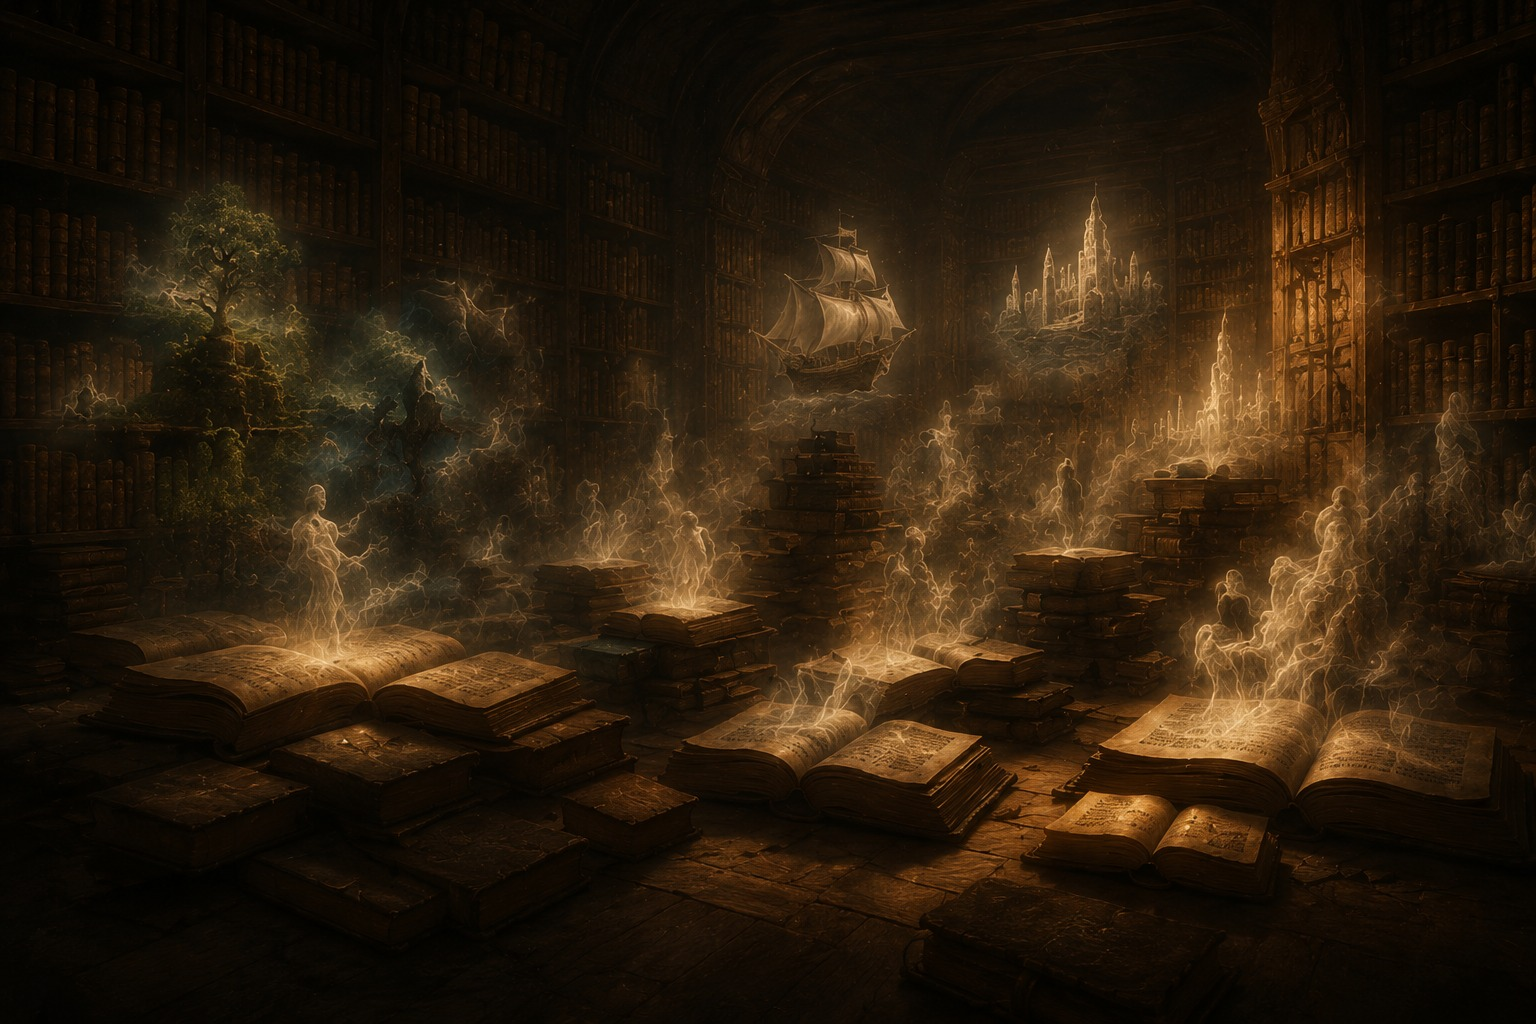
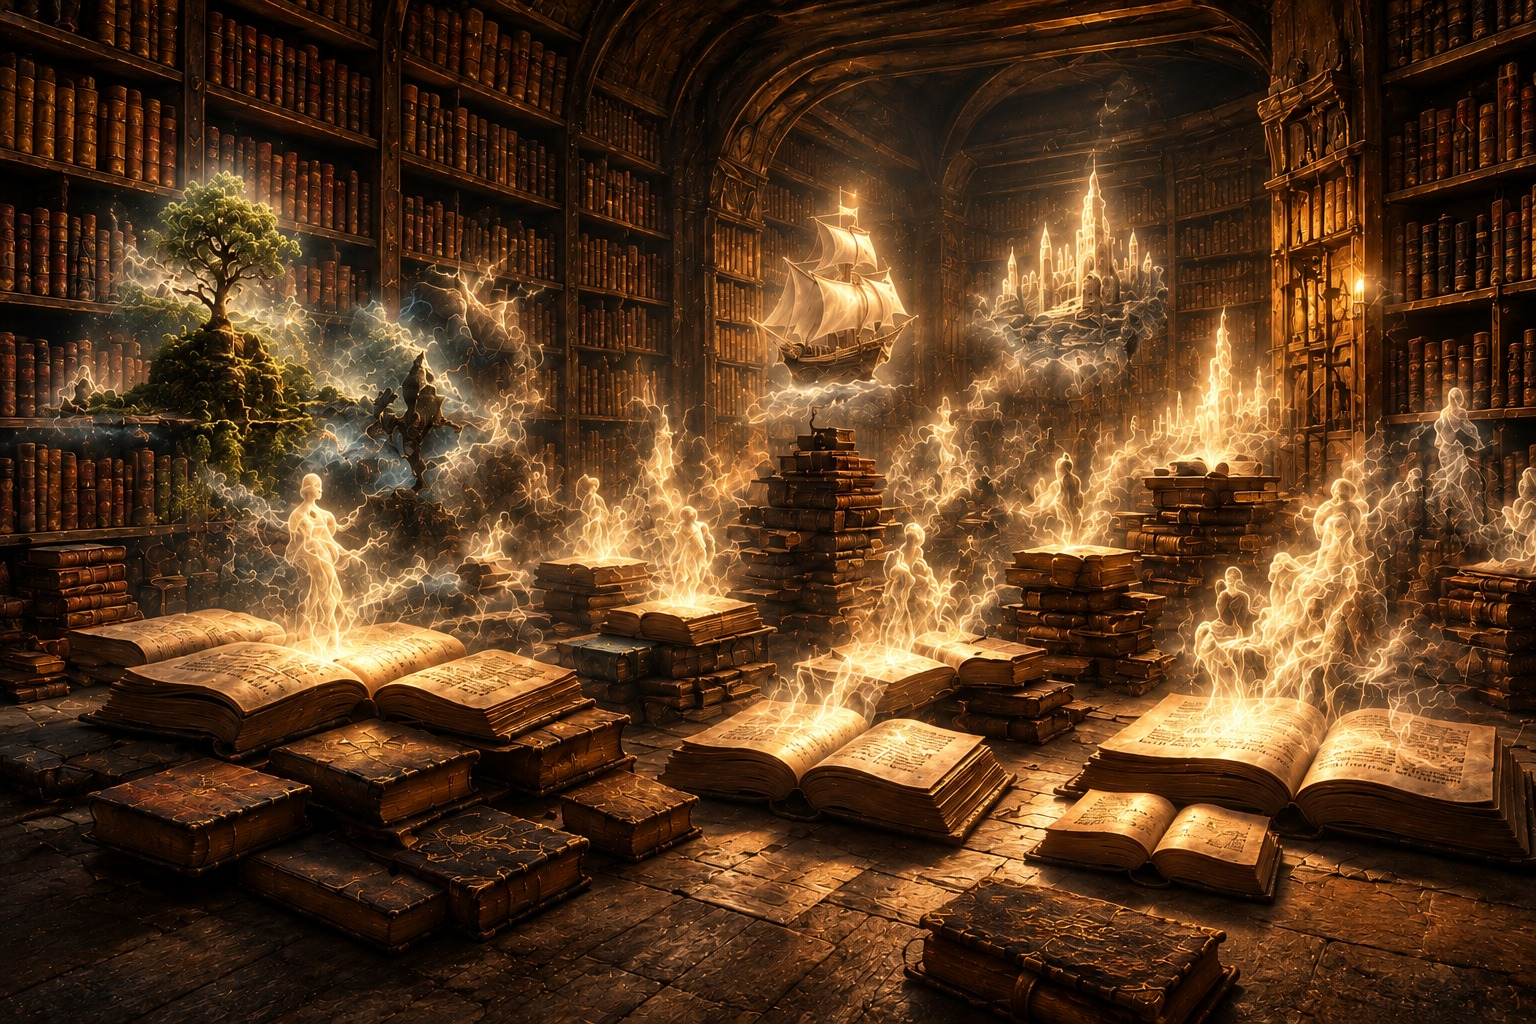
Substituir el fons del capítol 4
Claude-Session: https://claude.ai/code/session_01GKrSvxo6zfT4erwbxr9Umu

diff --git a/index.html b/index.html
@@ -14,7 +14,7 @@
 <link rel="preconnect" href="https://fonts.googleapis.com">
 <link rel="preconnect" href="https://fonts.gstatic.com" crossorigin>
 <link href="https://fonts.googleapis.com/css2?family=Playfair+Display:ital,wght@0,400;0,500;0,600;0,700;1,400;1,500&family=EB+Garamond:ital,wght@0,400;0,500;0,600;1,400;1,500&display=swap" rel="stylesheet">
-<link rel="stylesheet" href="assets/css/estilo.css?v=20261001t">
+<link rel="stylesheet" href="assets/css/estilo.css?v=20261001v">
 <script>document.documentElement.className = 'con-js';</script>
 </head>
 <body>
@@ -324,6 +324,6 @@
 
 </div>
 
-<script src="assets/js/libro.js?v=20261001t"></script>
+<script src="assets/js/libro.js?v=20261001v"></script>
 </body>
 </html>

diff --git a/assets/css/estilo.css b/assets/css/estilo.css
@@ -364,6 +364,7 @@ a{ color: inherit; }
 /* Una fotografia pot demanar un punt més de vel que la resta */
 [data-fondo="capitulo-1"]{ --mas-velo: .16; }
 [data-fondo="capitulo-3"]{ --mas-velo: .15; }
+[data-fondo="capitulo-4"]{ --mas-velo: .2; }
 /* En la página en blanco se ve más la imagen */
 .pagina--vacia .pagina__velo{
   background:
